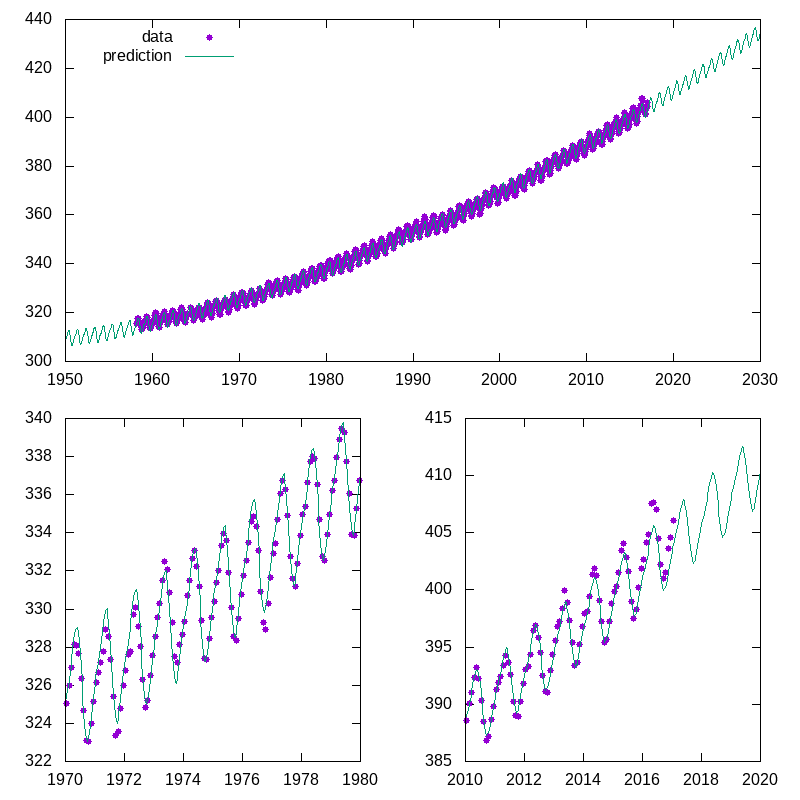
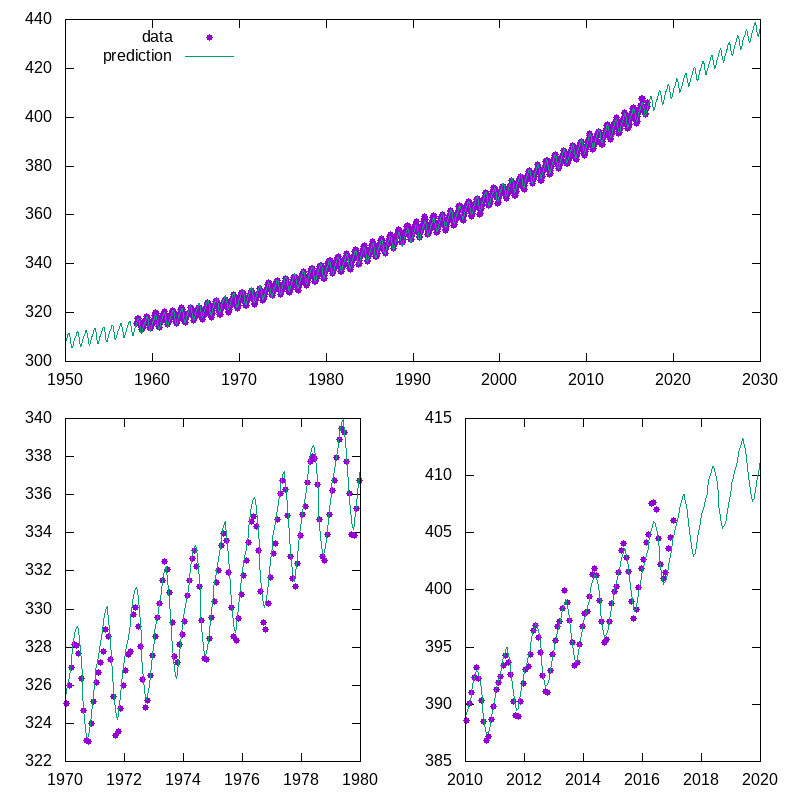
fixed cos offsets to 0

diff --git a/src/gp_interpolate.py b/src/gp_interpolate.py
@@ -24,7 +24,7 @@ def refeaturize(x,center=0):
     for v in x:
         v -= center
         arg = math.modf(v)[0]
-        features.append((np.power(int(v*8),int(2))//100 , np.power(int(v*8),int(3))//10000 , int(256 * (1.+np.cos(np.pi*2*arg))) , int(256*(1.+np.sin(np.pi*2*arg))), int(256 * (1.+np.cos(np.pi*4*arg))) , int(256*(1.+np.sin(np.pi*4*arg))) , int(256 * (1.+np.cos(np.pi*2*v/10))) , int(256*(1.+np.sin(np.pi*2*v/10))) , int(256 * (1.+np.cos(np.pi*2*v/20))) , int(256*(1.+np.sin(np.pi*2*v/20)))) )
+        features.append((np.power(int(v*8),int(2))//100 , np.power(int(v*8),int(3))//10000 , int(256 * (np.cos(np.pi*2*arg))) , int(256*(np.sin(np.pi*2*arg))), int(256 * (np.cos(np.pi*4*arg))) , int(256*(np.sin(np.pi*4*arg))) , int(256 * (np.cos(np.pi*2*v/10))) , int(256*(np.sin(np.pi*2*v/10))) , int(256 * (np.cos(np.pi*2*v/20))) , int(256*(np.sin(np.pi*2*v/20)))) )
     return features
 
 
